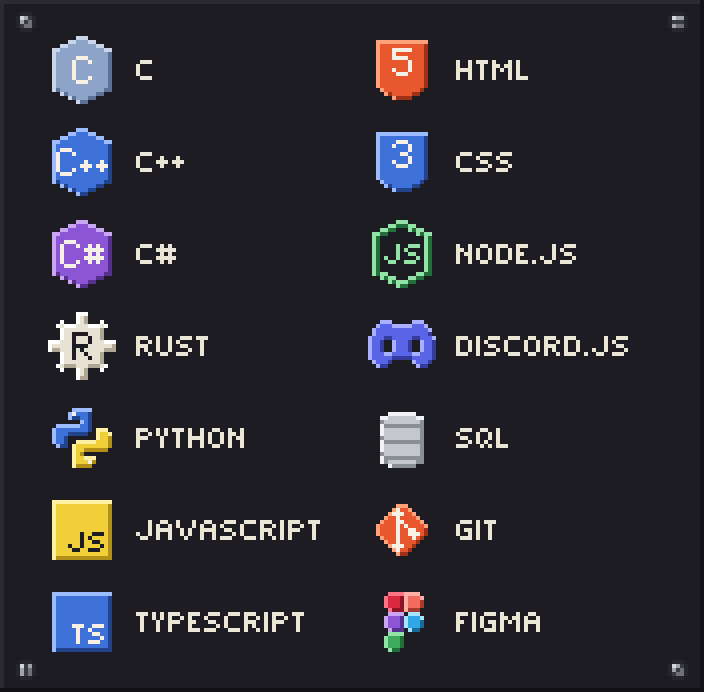
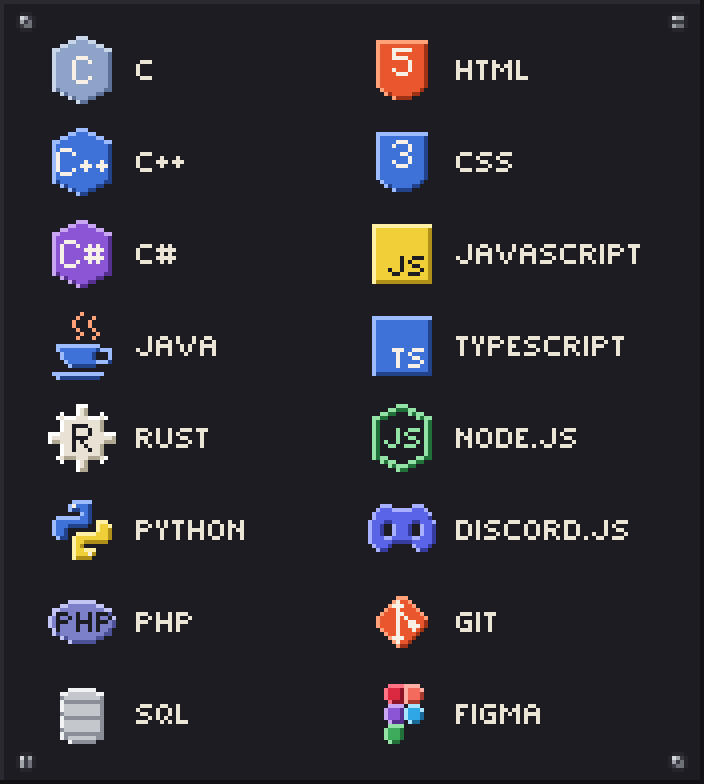
Add Java and PHP to the tools
Sixteen tools in two rows of eight: languages first (C, C++, C#, Java, Rust, Python, PHP, SQL), then the web and the tools (HTML, CSS, JavaScript, TypeScript, Node.js, Discord.js, Git, Figma).

diff --git a/art/tools.py b/art/tools.py
@@ -1,8 +1,8 @@
 """The tools I work with, as a patch bay: one small pixel logo for each.
 
 Every logo is drawn by hand on the same 17 x 17 grid, in the rack's colour
-ramps, and lit from the top left like the rest of the rack. Languages sit in
-the first row, then the web, the stack and the tools.
+ramps, and lit from the top left like the rest of the rack. Languages fill
+the first row; the web and the tools fill the second.
 
     python art/tools.py   ->  assets/tools.png and assets/tools-compact.png
 """
@@ -29,6 +29,7 @@ RAMP = {
     "blue": ("#9cbcff", "#3f72d9", "#22428c"),
     "steel": ("#c9d6ea", "#8ea3c8", "#5d7096"),
     "violet": ("#c9a6f2", "#8b55d6", "#56308f"),
+    "lavender": ("#c3c6f5", "#7c80c8", "#4d5196"),
     "blurple": ("#a9b0ff", "#5a64e6", "#363c9e"),
     "amber": ("#ffd88a", "#f2a224", "#a9620c"),
     "yellow": ("#fff0a3", "#f0cf38", "#b09018"),
@@ -233,23 +234,69 @@ def figma():
     return [(tl, "crimson"), (tr, "coral"), (ml, "violet"), (mr, "cyan"), (bl, "green")], []
 
 
+def php():
+    """The PHP oval with its name across it."""
+    oval = {(x, y) for y in range(N) for x in range(N) if ((x - 8) / 8.45) ** 2 + ((y - 8) / 5.45) ** 2 <= 1}
+    return [(oval, "lavender")], [(word(SMALL, "PHP", 2, 6), "#1d1c22")]
+
+
+JAVA_CUP = [
+    ".................",
+    ".................",
+    ".................",
+    ".................",
+    ".................",
+    ".................",
+    ".................",
+    ".................",
+    "..###########....",
+    "..##############.",
+    "...#########..##.",
+    "...#########..##.",
+    "....############.",
+    ".....#######.....",
+    ".................",
+    ".#############...",
+    "..###########....",
+]
+JAVA_STEAM = [
+    "........#........",
+    ".......#...#.....",
+    "......#...#......",
+    "......#...#......",
+    ".......#...#.....",
+    "........#...#....",
+    ".......#...#.....",
+]
+
+
+def java():
+    """A cup on its saucer with two wisps of steam."""
+    cup = sprite(JAVA_CUP)
+    cup -= {(13, 10), (14, 10), (13, 11), (14, 11)}
+    return [(cup, "blue"), (sprite(JAVA_STEAM), "orange")], []
+
+
 TOOLS = [
-    # (label, logo) in reading order: languages first, then web, stack and tools
+    # Reading order: languages in the first row, the web and the tools in the second.
     [("C", lambda: c_family("", "steel")),
      ("C++", lambda: c_family("++", "blue")),
      ("C#", lambda: c_family("#", "violet")),
+     ("JAVA", java),
      ("RUST", rust),
      ("PYTHON", python),
-     ("JAVASCRIPT", js),
-     ("TYPESCRIPT", ts)],
+     ("PHP", php),
+     ("SQL", sql)],
     [("HTML", html),
      ("CSS", css),
+     ("JAVASCRIPT", js),
+     ("TYPESCRIPT", ts),
      ("NODE.JS", node),
      ("DISCORD.JS", discord_js),
-     ("SQL", sql),
      ("GIT", git),
      ("FIGMA", figma)],
 ]
+COLUMNS = len(TOOLS[0])
 
 LABEL_FONT = dict(SMALL, **SHARP)
 
@@ -285,9 +332,9 @@ def panel(w, h):
 
 
 def wide():
-    """Two rows of seven, each logo over its name. 420 wide, like the rack."""
-    w, margin, top = rack.W, 14, 9
-    cell = (w - 2 * margin) // 7
+    """Two rows of eight, each logo over its name. 420 wide, like the rack."""
+    w, margin, top = rack.W, 10, 9
+    cell = (w - 2 * margin) // COLUMNS
     row_h = N + 4 + 5
     gap = 10
     h = top + 2 * row_h + gap + top - 1
@@ -306,7 +353,7 @@ def compact():
     w, margin, top = 176, 8, 9
     col = (w - 2 * margin) // 2
     pitch = N + 6
-    h = top + 7 * pitch - 6 + top
+    h = top + COLUMNS * pitch - 6 + top
     cv = panel(w, h)
     for c, row in enumerate(TOOLS):
         x = margin + c * col + 4

diff --git a/README.md b/README.md
@@ -45,7 +45,7 @@ This is client and community work, so none of it lives in public repositories on
 
 <picture>
   <source media="(max-width: 600px)" srcset="./assets/tools-compact.png">
-  <img src="./assets/tools.png" width="1680" alt="Pixel-art logos of the tools I work with. Languages: C, C++, C#, Rust, Python, JavaScript and TypeScript. Web, stack and tools: HTML, CSS, Node.js, Discord.js, SQL, Git and Figma.">
+  <img src="./assets/tools.png" width="1680" alt="Pixel-art logos of the tools I work with. Languages: C, C++, C#, Java, Rust, Python, PHP and SQL. The web and tools: HTML, CSS, JavaScript, TypeScript, Node.js, Discord.js, Git and Figma.">
 </picture>
 
 ## This year, as a sequence
